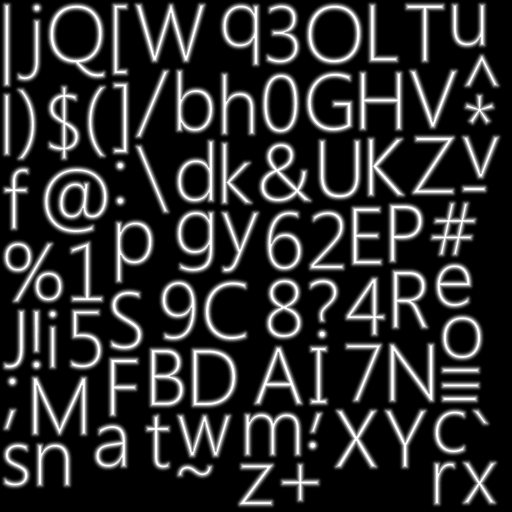
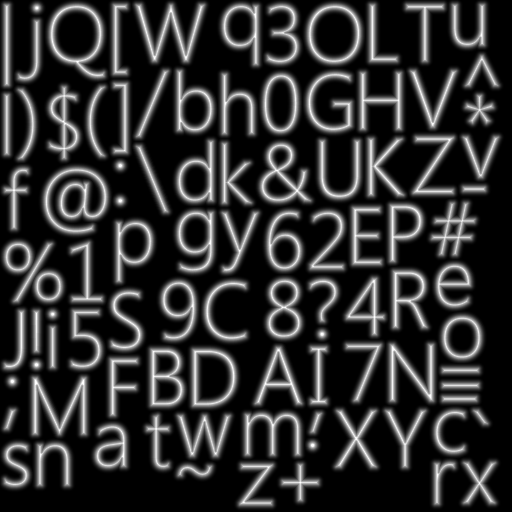
Fixed font sizes

diff --git a/spacearena-core/src/main/java/ru/spacearena/engine/graphics/font/gen/FontGenerator.java b/spacearena-core/src/main/java/ru/spacearena/engine/graphics/font/gen/FontGenerator.java
@@ -4,6 +4,7 @@ import ru.spacearena.engine.geometry.shapes.Rect2I;
 import ru.spacearena.engine.graphics.font.CharData;
 import ru.spacearena.engine.graphics.font.FontData;
 import ru.spacearena.engine.graphics.font.gen.pack.RectPacker;
+import ru.spacearena.engine.util.FloatMathUtils;
 import ru.spacearena.engine.util.IntMathUtils;
 
 import java.awt.*;
@@ -61,15 +62,18 @@ public class FontGenerator {
 //        return p;
 //    }
 
-    public static BufferedImage generateFontImage(Font font, FontData fd, boolean hq) {
+    public static Font createFont(FontGeneratorInput input) {
+        final int pointSize = FloatMathUtils.round((float)input.getFontSize()*4f/3);
+        return new Font(input.getFontName(), input.getFontStyle(), pointSize);
+    }
+
+    public static BufferedImage generateFontImage(Font font, FontGeneratorInput input, FontData fd) {
         final BufferedImage img = new BufferedImage(fd.getImageWidth(), fd.getImageHeight(), BufferedImage.TYPE_BYTE_GRAY);
-        final Graphics2D g = getGraphics(img, hq);
+        final Graphics2D g = getGraphics(img, input.isHq());
         g.setFont(font);
         g.setColor(Color.WHITE);
 
         final FontMetrics fm = g.getFontMetrics(font);
-
-
         final char[] ch = new char[1];
         for (CharData glyph: fd.getGlyphs()) {
             ch[0] = glyph.getCharacter();
@@ -82,8 +86,9 @@ public class FontGenerator {
         return img;
     }
 
-    public static FontData computeFontData(Font font, int pad, int scale, String alphabet) {
+    public static FontData computeFontData(Font font, FontGeneratorInput input) {
 
+        final String alphabet = input.getAlphabet();
         if (font.canDisplayUpTo(alphabet) >= 0) {
             return null;
         }
@@ -92,6 +97,7 @@ public class FontGenerator {
         final FontRenderContext frc = new FontRenderContext(t, false, false);
         final FontData fi = new FontData();
 
+
         final LineMetrics lm = font.getLineMetrics(alphabet, frc);
         final int lineHeight = getAsInt(lm.getHeight());
 
@@ -99,6 +105,7 @@ public class FontGenerator {
         fi.setTabAdvance(fi.getSpaceAdvance() * 4);
 
         final ArrayList<CharData> charList = new ArrayList<CharData>();
+        final int pad = input.getPad();
         for (int i=0; i<alphabet.length(); i++) {
             final TextLayout textLayout = new TextLayout(alphabet.substring(i, i + 1), font, frc);
             final float ascent = textLayout.getAscent();
@@ -133,9 +140,10 @@ public class FontGenerator {
         fi.setImageWidth(IntMathUtils.pow2RoundUp(packer.getPackWidth()));
         fi.setImageHeight(IntMathUtils.pow2RoundUp(packer.getPackHeight()));
         fi.setLineHeight(lineHeight);
-        fi.setFontSize(font.getSize());
+        // font.getSize() returns size in points (it's ~= 4/3 pixels on windows)
+        fi.setFontSize(input.getFontSize());
         fi.setFontStyle(font.getStyle());
-        fi.setImageScale(scale);
+        fi.setImageScale(input.getImageScale());
         return fi;
     }
 

diff --git a/spacearena-core/src/main/java/ru/spacearena/engine/graphics/font/gen/FontGeneratorWorker.java b/spacearena-core/src/main/java/ru/spacearena/engine/graphics/font/gen/FontGeneratorWorker.java
@@ -6,6 +6,7 @@ import ru.spacearena.engine.graphics.font.gen.df.DistanceField;
 import ru.spacearena.engine.util.FloatMathUtils;
 
 import javax.swing.*;
+import java.awt.*;
 import java.awt.image.BufferedImage;
 
 /**
@@ -20,24 +21,30 @@ class FontGeneratorWorker extends SwingWorker<FontGeneratorResult, Object> {
         this.input = input;
     }
 
+    private void fireAction(String action) {
+        firePropertyChange("what", null, action);
+    }
+
     @Override
     protected FontGeneratorResult doInBackground() throws Exception {
-        firePropertyChange("what", null, "Computing font layout...");
-        final FontData fd = FontGenerator.computeFontData(
-                input.getFont(), input.getPad(), input.getImageScale(), input.getAlphabet());
 
-        firePropertyChange("what", null, "Generating font image...");
-        final BufferedImage fi = FontGenerator.generateFontImage(input.getFont(), fd, input.isHq());
+        final Font font = FontGenerator.createFont(input);
+
+        fireAction("Computing font layout...");
+        final FontData fd = FontGenerator.computeFontData(font, input);
+
+        fireAction("Generating font image...");
+        final BufferedImage fi = FontGenerator.generateFontImage(font, input, fd);
 
         final float d = 1;
-        firePropertyChange("what", null, "Computing distance field...");
+        fireAction("Computing distance field...");
         final DistanceField df = DeadReckoning.computeDistanceField(fi, d, FloatMathUtils.length(d,d));
 
-        firePropertyChange("what", null, "Mapping distance field to image...");
+        fireAction("Mapping distance field to image...");
         final BufferedImage dfi = DeadReckoning.toImage(df,
                 new DeadReckoning.ManualMap(input.getDistanceFieldOffset(), input.getDistanceFieldScale()));
 
-        firePropertyChange("what", null, "Resizing distance field...");
+        fireAction("Resizing distance field...");
         final BufferedImage df2 = DeadReckoning.scaleDownByPow2(dfi, input.getImageScale());
 
         return new FontGeneratorResult(fd, fi, df2);

diff --git a/spacearena-core/src/main/java/ru/spacearena/game/GameFactory.java b/spacearena-core/src/main/java/ru/spacearena/game/GameFactory.java
@@ -88,36 +88,21 @@ public class GameFactory implements EngineFactory {
 
         viewport.add(new EngineObject() {
 
-            private final Color c = new Color(Color.WHITE);
-
-            private float v = 1f;
-
-            @Override
-            public boolean onUpdate(float seconds) {
-                c.a += v * seconds;
-                if (c.a > 1f) {
-                    c.a = 1f;
-                    v = -v;
-                } else if (c.a < 0) {
-                    c.a = 0;
-                    v = -v;
-                }
-                return true;
-            }
-
             @Override
             public void onDraw(DrawContext context) {
 
-                context.drawText(String.format("FPS: %d",
-                        f.getFrameCount()), 100, 100, FontRepository.SEGOE_UI_LIGHT, 38, c);
+                //context.dpToPx()
+
+//                context.drawText(String.format("FPS: %d",
+//                        f.getFrameCount()), 100, 100, FontRepository.SEGOE_UI_LIGHT, 15, Color.WHITE);
 //
 //
-//                int y = 0;
-//                for (int i=0; i<20; i++) {
-//                    final int size = i * 2 + 4;
-//                    context.drawText(String.format("FPS: %d", f.getFrameCount()), 0, y, FontRepository.CALIBRI, size, Color.WHITE);
-//                    y += size;
-//                }
+                int y = 0;
+                for (int i=0; i<20; i++) {
+                    final int size = i * 2 + 4;
+                    context.drawText(String.format("FPS: %d", f.getFrameCount()), 0, y, FontRepository.SEGOE_UI_LIGHT, size, Color.WHITE);
+                    y += size;
+                }
 //
 //                y = 0;
 //                for (int i=0; i<10; i++) {

diff --git a/spacearena-core/src/main/java/ru/spacearena/engine/graphics/font/gen/FontGeneratorInput.java b/spacearena-core/src/main/java/ru/spacearena/engine/graphics/font/gen/FontGeneratorInput.java
@@ -1,29 +1,21 @@
 package ru.spacearena.engine.graphics.font.gen;
 
-import java.awt.*;
-
 /**
 * @author Vyacheslav Mayorov
 * @since 2014-10-04
 */
 class FontGeneratorInput {
 
-    private Font font;
     private int pad;
     private float distanceFieldOffset;
     private float distanceFieldScale;
     private String alphabet;
     private boolean hq;
     private int imageScale;
-
-    public Font getFont() {
-        return font;
-    }
-
-    public void setFont(Font font) {
-        this.font = font;
-    }
-
+    private String fontName;
+    private int fontStyle;
+    private int fontSize;
+    
     public int getPad() {
         return pad;
     }
@@ -70,5 +62,29 @@ class FontGeneratorInput {
 
     public void setImageScale(int imageScale) {
         this.imageScale = imageScale;
+    }
+
+    public int getFontSize() {
+        return fontSize;
+    }
+
+    public void setFontSize(int fontSize) {
+        this.fontSize = fontSize;
+    }
+
+    public void setFontName(String fontName) {
+        this.fontName = fontName;
+    }
+
+    public String getFontName() {
+        return fontName;
+    }
+
+    public int getFontStyle() {
+        return fontStyle;
+    }
+
+    public void setFontStyle(int fontStyle) {
+        this.fontStyle = fontStyle;
     }
 }

diff --git a/spacearena-core/src/main/java/ru/spacearena/engine/graphics/font/gen/FontGeneratorPanel.java b/spacearena-core/src/main/java/ru/spacearena/engine/graphics/font/gen/FontGeneratorPanel.java
@@ -294,17 +294,16 @@ public class FontGeneratorPanel extends JPanel {
     private void startGenerationWorker() {
 
         saveButton.setEnabled(false);
+        lastResult = null; // reset last result to free memory
 
         final FontGeneratorInput input = new FontGeneratorInput();
         input.setAlphabet(alphabetText.getText());
         input.setHq(hqCheckBox.isSelected());
         input.setPad((Integer)charPadField.getValue());
         input.setImageScale((Integer)imageScale.getValue());
-
-        final String fontName = (String)fontFaceComboBox.getSelectedItem();
-        final int fontSize = (Integer)fontSizeField.getValue();
-        final int fontStyle = fontStyleCombobox.getSelectedIndex();
-        input.setFont(new Font(fontName, fontStyle, fontSize));
+        input.setFontName((String)fontFaceComboBox.getSelectedItem());
+        input.setFontSize((Integer)fontSizeField.getValue());
+        input.setFontStyle(fontStyleCombobox.getSelectedIndex());
         input.setDistanceFieldOffset(distanceFieldOffsetSlider.getValue());
         input.setDistanceFieldScale(distanceFieldScaleSlider.getValue());
 

diff --git a/spacearena-core/src/main/java/ru/spacearena/engine/graphics/DrawContext.java b/spacearena-core/src/main/java/ru/spacearena/engine/graphics/DrawContext.java
@@ -30,6 +30,12 @@ public class DrawContext {
     public static final float DEFAULT_FONT_SCALE = 1f;
     public static final float DENSITY_SCALE_PPI = 160f;
 
+    public enum Unit {
+        DP,
+        SP,
+        PX
+    }
+
     private final OpenGL gl;
 
     private final VertexBuffer vertexBuffer = new VertexBuffer();
@@ -230,7 +236,6 @@ public class DrawContext {
                 draw(OpenGL.TRIANGLE_FAN);
     }
 
-
     public void drawText(String text, float x, float y, FontData.Definition font, float size, Color color) {
 
         final FontData f = load(font);
@@ -297,7 +302,7 @@ public class DrawContext {
                 bindUniform(DistanceFieldProgram.MATRIX_UNIFORM, activeMatrix).
                 bindUniform(DistanceFieldProgram.TEXTURE_UNIFORM, font.getTexture(), 0).
                 bindUniform(DistanceFieldProgram.COLOR_UNIFORM, color).
-                bindUniform(DistanceFieldProgram.SMOOTH_UNIFORM, (float)(1<<f.getImageScale())/size).
+                bindUniform(DistanceFieldProgram.SMOOTH_UNIFORM, (float)(1<<f.getImageScale())/(size)).
                 draw(OpenGL.TRIANGLES);
     }
 

diff --git a/spacearena-jogl/src/main/java/ru/spacearena/jogl/JoglWindow.java b/spacearena-jogl/src/main/java/ru/spacearena/jogl/JoglWindow.java
@@ -60,12 +60,9 @@ public class JoglWindow {
         final int sw = screen.getWidth(), sh = screen.getHeight();
         for (MonitorDevice m: screen.getMonitorDevices()) {
             DimensionImmutable di = m.getSizeMM();
-            final float xInch = di.getWidth() * INCH_PER_MM;
-            final float yInch = di.getHeight() * INCH_PER_MM;
-            final float xPPI = sw / xInch;
-            final float yPPI = sh / yInch;
+            final float xInch = di.getWidth() * INCH_PER_MM, yInch = di.getHeight() * INCH_PER_MM;
+            final int xPPI = FloatMathUtils.round(sw / xInch), yPPI = FloatMathUtils.round(sh / yInch);
             maxPPI = FloatMathUtils.max(maxPPI, FloatMathUtils.min(xPPI, yPPI));
-            System.out.println("XDPI: " + xPPI + "; YDPI: " + yPPI);
         }
         return FloatMathUtils.isZero(maxPPI) ? DrawContext.DEFAULT_DENSITY_SCALE : maxPPI/DrawContext.DENSITY_SCALE_PPI;
     }

diff --git a/spacearena-core/src/main/java/ru/spacearena/engine/util/FloatMathUtils.java b/spacearena-core/src/main/java/ru/spacearena/engine/util/FloatMathUtils.java
@@ -211,7 +211,7 @@ public class FloatMathUtils {
         return size(min, max) / 2;
     }
 
-    public static long round(float v) {
+    public static int round(float v) {
         return Math.round(v);
     }
 
